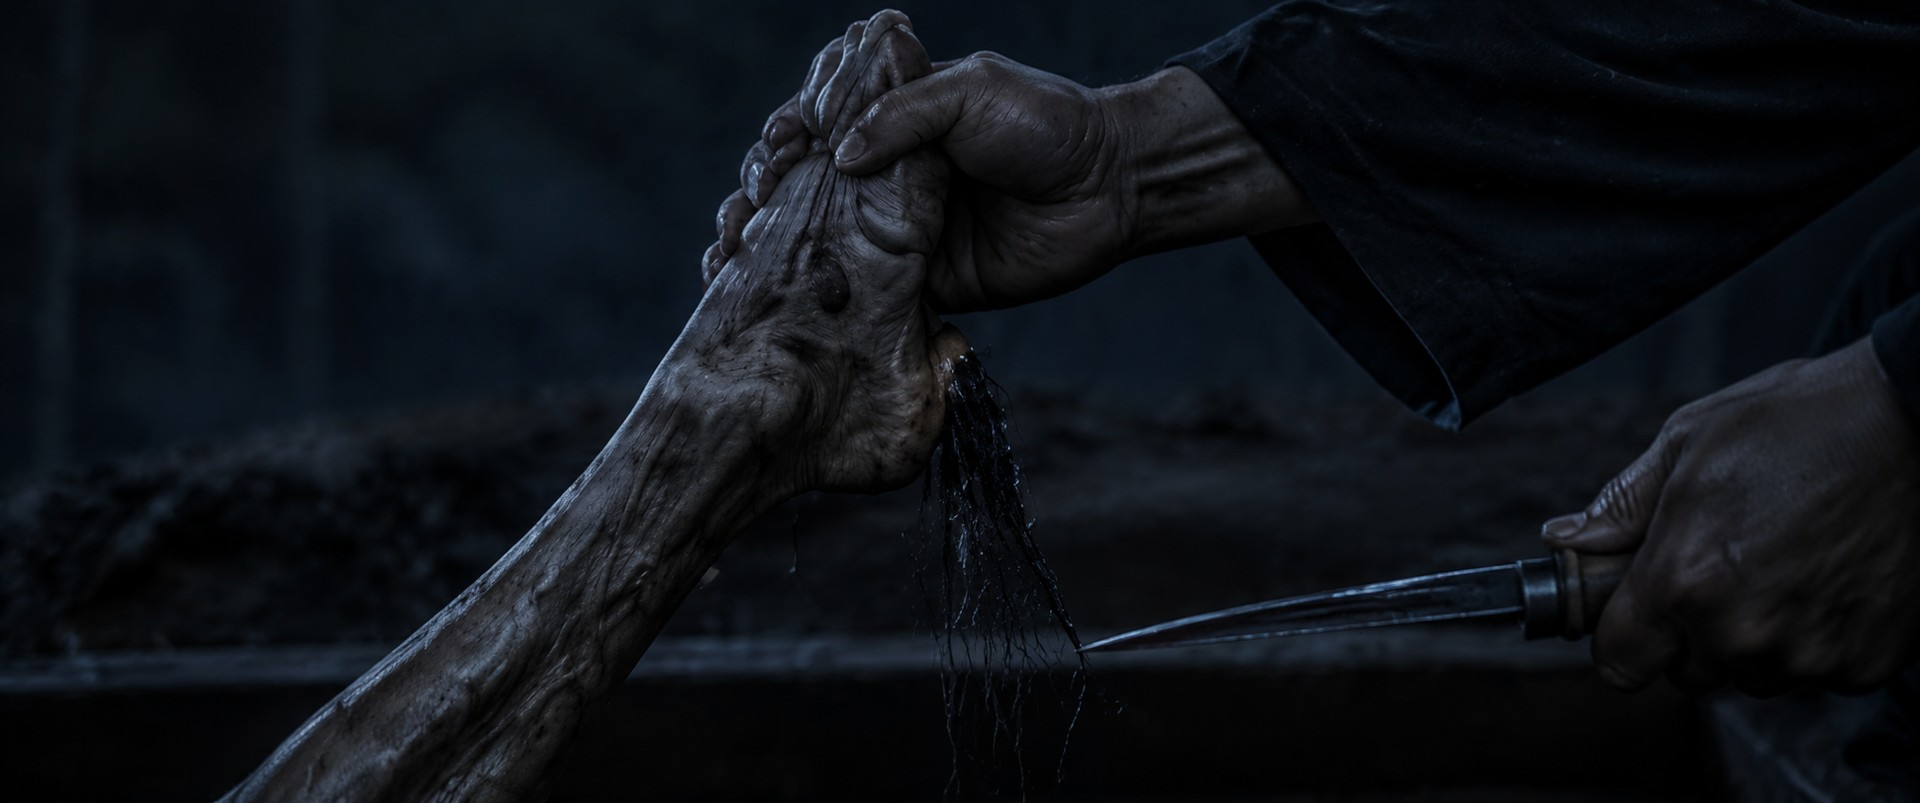
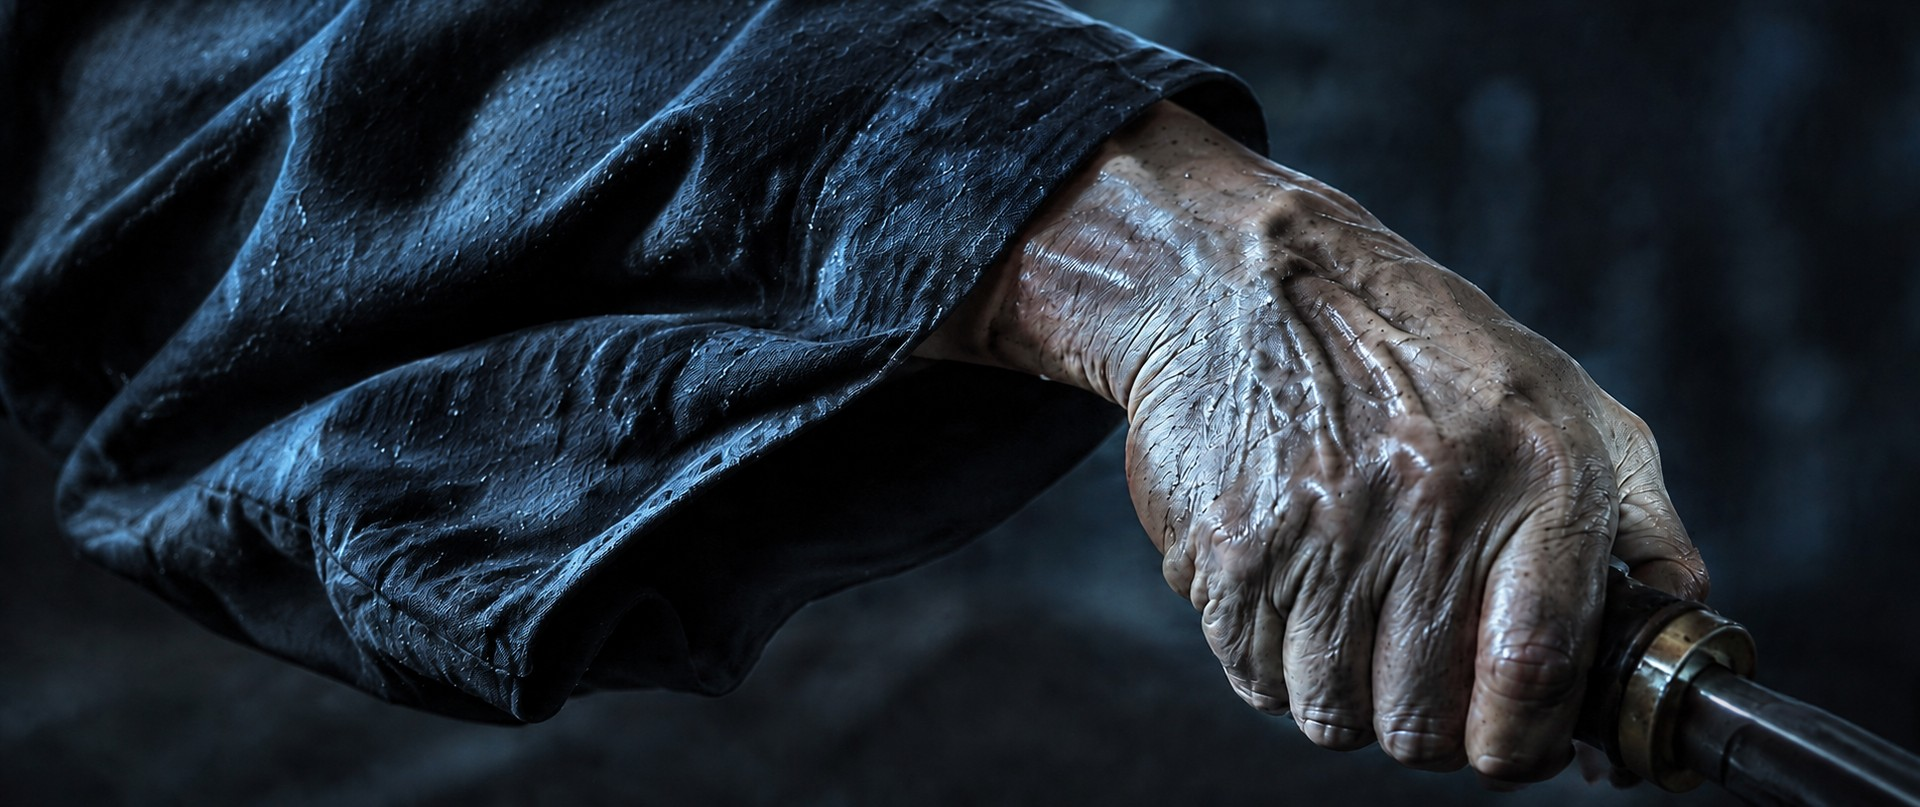
동훈 씬 신설 · 무당씬 7컷 추가 — 받은 이미지 중 쓸 것만 골라 넣음
무당 v4 일곱 장은 발목을 자른 직후의 시퀀스였다. 대본에 「망나니가 칼을
떨어뜨린 채 숨을 몰아쉰다」는 한 줄이 있는데 내가 접어놨던 자리다.
칼끝의 피 한 방울부터 숲 바닥에 엎드리는 데까지 일곱 컷으로 폈다.
씬 72 는 66 → 73컷. 뒤 컷 번호가 밀려서 메모 안의 참조도 같이 밀었다.

동훈 v1 열다섯 장 중 여섯 장만 썼다. 안 쓴 아홉 장의 이유 —
세로 3:4 소스는 2.14:1 창에서 좌우가 60% 검게 남는다. 같은 컷 변주가
넷이라 하나만 남겼다. 화면에 자막이 박힌 판본은 같은 컷의 깨끗한 것이
따로 있다. 저해상도 스크린샷과 돌벽 그림자 컷은 어느 씬에도 맞지 않는다.

여섯 장이 들어갈 자리가 없어서 씬 14(조선총독부 경찰국)를 16컷으로 새로
쪼갰다. C8 「뚝. 뚝.」 핏방울을 S72 C57 「칼끝의 피 한 방울」과 같은
사이즈로 잡았다 — 400년을 사이에 둔 같은 컷이다.

씬 14 빈칸은 여덟에서 둘로 줄였다. 거꾸로 매달린 독립투사와 고문 도구만
시안이 필요하고 나머지는 로케이션과 배우로 찍는다.

Claude-Session: https://claude.ai/code/session_01URcnQp3xgk3hemxsoyXoAc

diff --git a/storyboard/README.md b/storyboard/README.md
@@ -19,8 +19,8 @@
 
 ## 지금까지 채워진 것
 
-**표지 1장 + 키 아트 1장 + 컷 11장 = 13장.**
-전체 **105컷** · 그중 덱에 싣는 것 **66컷** · 이미지 **52장**.
+**표지 1장 + 키 아트 1장 + 컷 14장 = 16장.**
+전체 **128컷** · 그중 덱에 싣는 것 **81컷** · 이미지 **71장**.
 
 맨 앞 두 장은 `keyart/` 폴더의 대표 이미지로 자동으로 만들어집니다.
 `cover.jpg` 를 다른 파일로 갈아끼우면 표지가 바뀌고 폴더를 비우면 두 장 다 빠집니다.
@@ -29,8 +29,9 @@
 |---|---|---|
 | 1 — 프롤로그 (병원 복도·수술실) | 16 | 4 |
 | 2 — 타이틀 시퀀스 | 9 | 1 |
+| **14 — 조선총독부 경찰국 (1944)** | **16** | **6** |
 | 54 — 소독실 → 같은 복도 (MATCH CUT) | 14 | 1 |
-| **72 — 에필로그 · 1587년, ‘그것’의 탄생** | **66** | **46** |
+| **72 — 에필로그 · 1587년, ‘그것’의 탄생** | **73** | **53** |
 
 ### 씬 1 · 2 · 54 배정
 
@@ -71,33 +72,41 @@
 
 | | 어디로 | 몇 개 |
 |---|---|---|
-| 이미지가 있는 컷 | 덱 | 52 |
-| 시안이 꼭 있어야 하는 컷 (`"need": true`) | 덱 · 그림 칸 비움 | 13 |
-| 그대로 촬영하면 되는 컷 | `out/촬영컷목록.md` | 39 |
+| 이미지가 있는 컷 | 덱 | 66 |
+| 시안이 꼭 있어야 하는 컷 (`"need": true`) | 덱 · 그림 칸 비움 | 15 |
+| 그대로 촬영하면 되는 컷 | `out/각혈 촬영컷목록 vNN.md` | 47 |
 | 이미 만든 이미지를 다시 쓰는 컷 | 덱 (S54 C6 등) | 1 |
 
-**덱 66컷 · 11장.** 컷 번호는 전체 105컷 기준 그대로라서 덱에서 군데군데 건너뜁니다 —
+**덱 81컷 · 14장.** 컷 번호는 전체 105컷 기준 그대로라서 덱에서 군데군데 건너뜁니다 —
 건너뛴 번호가 곧 촬영 목록에 있는 컷입니다.
 
-### 빈칸으로 남긴 13컷 — 시안이 꼭 필요한 것
+### 빈칸으로 남긴 15컷 — 시안이 꼭 필요한 것
 
 | 컷 | 무엇 | 왜 시안이 필요한가 |
 |---|---|---|
-| S1 C12 | 수술실 구석 어둠이 갈라지며 ‘그것’이 드러난다 | 크리처 첫 등장 — 실루엣 확정 |
+| S1 C12 | 어둠이 갈라지며 ‘그것’이 드러난다 | 크리처 첫 등장 — 실루엣 확정 |
 | S1 C13 | 「封神」 붉은 부적 BCU | 전편에서 반복되는 핵심 소품 |
 | S2 C1 | 낡은 검은 종이의 질감 | 타이틀 시퀀스 룩 |
 | S2 C3 | 罪 — 먹물이 글자를 밀어 올린다 | 글자 4개의 기준이 되는 한 컷 |
+| S14 C7 | 거꾸로 매달린 독립투사 | 특수분장 · 매다는 장치 |
+| S14 C13 | 고문 도구가 팽팽하게 당겨진다 | 도구 디자인 |
 | S54 C10 | 엘리베이터 반사 속 수많은 얼굴과 손 | VFX — 실물=소 / 반사=대 |
 | S54 C12 | 벽에 부푼 거대한 그림자 | VFX |
 | S72 C14 | 피로 부적의 마지막 획 「封神」 | 부적이 만들어지는 유일한 컷 |
-| **S72 C57** | 이마에 부적을 내리꽂는다 — 「봉신성립」 | **영화의 원점** |
-| S72 C58 | 얼굴이 재처럼 흩날린다 | VFX |
-| **S72 C59** | 눈·코·입 없는 어둠 + 붉은 부적 | **S71에서 슈가 보게 되는 그 어둠** |
-| S72 C63 | 관에서 일어나는 노모 | 실루엣 확정 |
-| **S72 C64** | 망가진 발을 끌며 내려선다 | **「슥…쿵」이 처음 나는 자리** |
-| **S72 C65** | 얼굴을 들이민다 — 아무것도 없다 | **S71 슈의 마지막과 같은 구도** |
+| **S72 C64** | 이마에 부적을 내리꽂는다 — 「봉신성립」 | **영화의 원점** |
+| S72 C65 | 얼굴이 재처럼 흩날린다 | VFX |
+| **S72 C66** | 눈·코·입 없는 어둠 + 붉은 부적 | **S71에서 슈가 보게 되는 그 어둠** |
+| S72 C70 | 관에서 일어나는 노모 | 실루엣 확정 |
+| **S72 C71** | 망가진 발을 끌며 내려선다 | **「슥…쿵」이 처음 나는 자리** |
+| **S72 C72** | 얼굴을 들이민다 — 아무것도 없다 | **S71 슈의 마지막과 같은 구도** |
 
 굵게 표시한 넷이 반전을 지탱합니다.
+
+### 받은 이미지 중 안 쓴 것 — 동훈 씬 15장에서 9장
+
+세로 3:4 소스는 2.14:1 창에서 좌우가 60% 검게 남습니다. 같은 컷의 변주가
+넷이라 그중 하나(C6)만 쓰고 나머지는 뺐습니다. 화면에 자막이 박힌 판본,
+저해상도 스크린샷, 씬에 맞지 않는 그림자 컷도 뺐습니다.
 
 ## 쓰는 법
 
